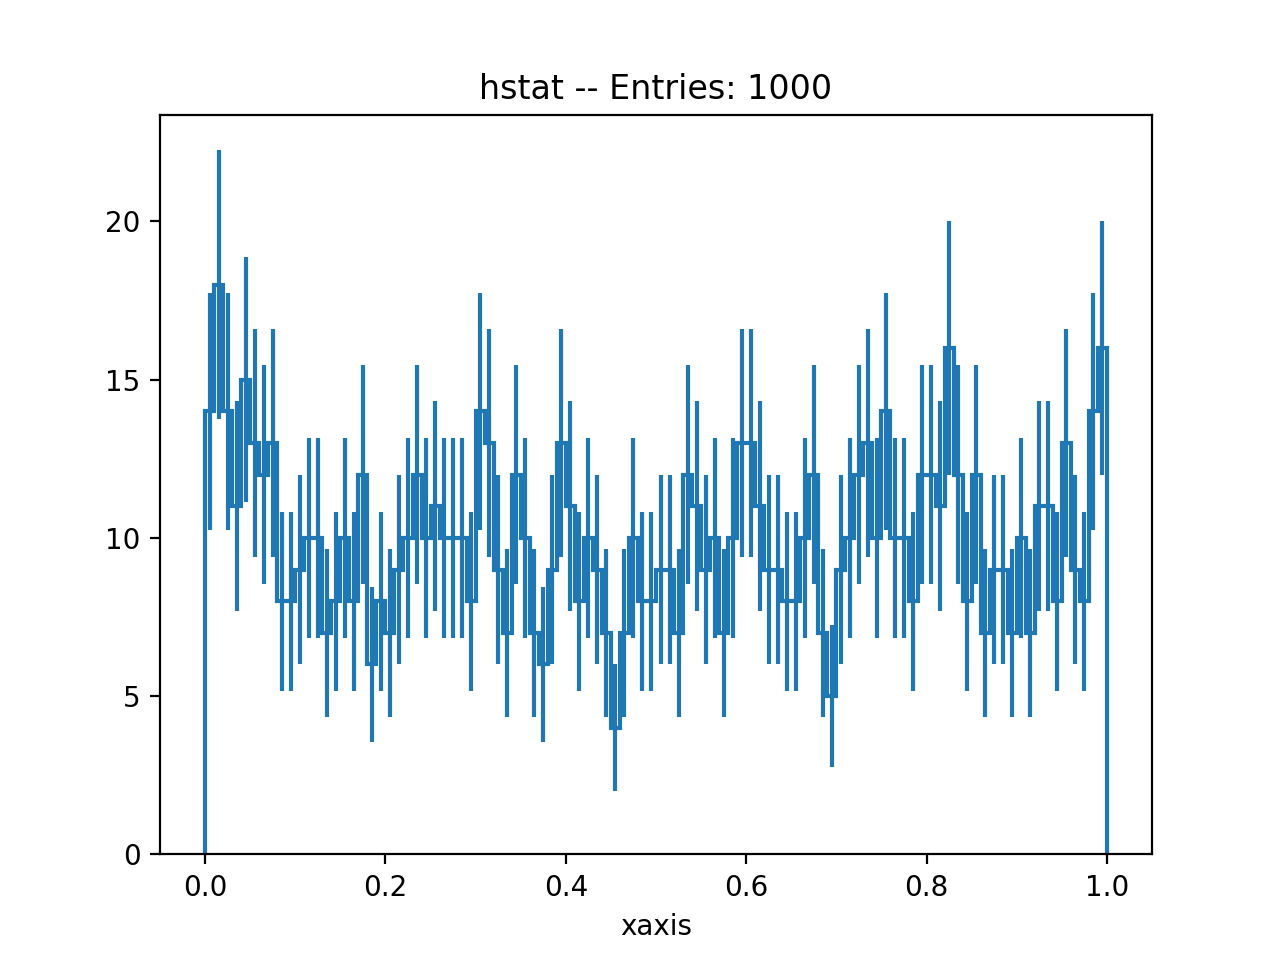
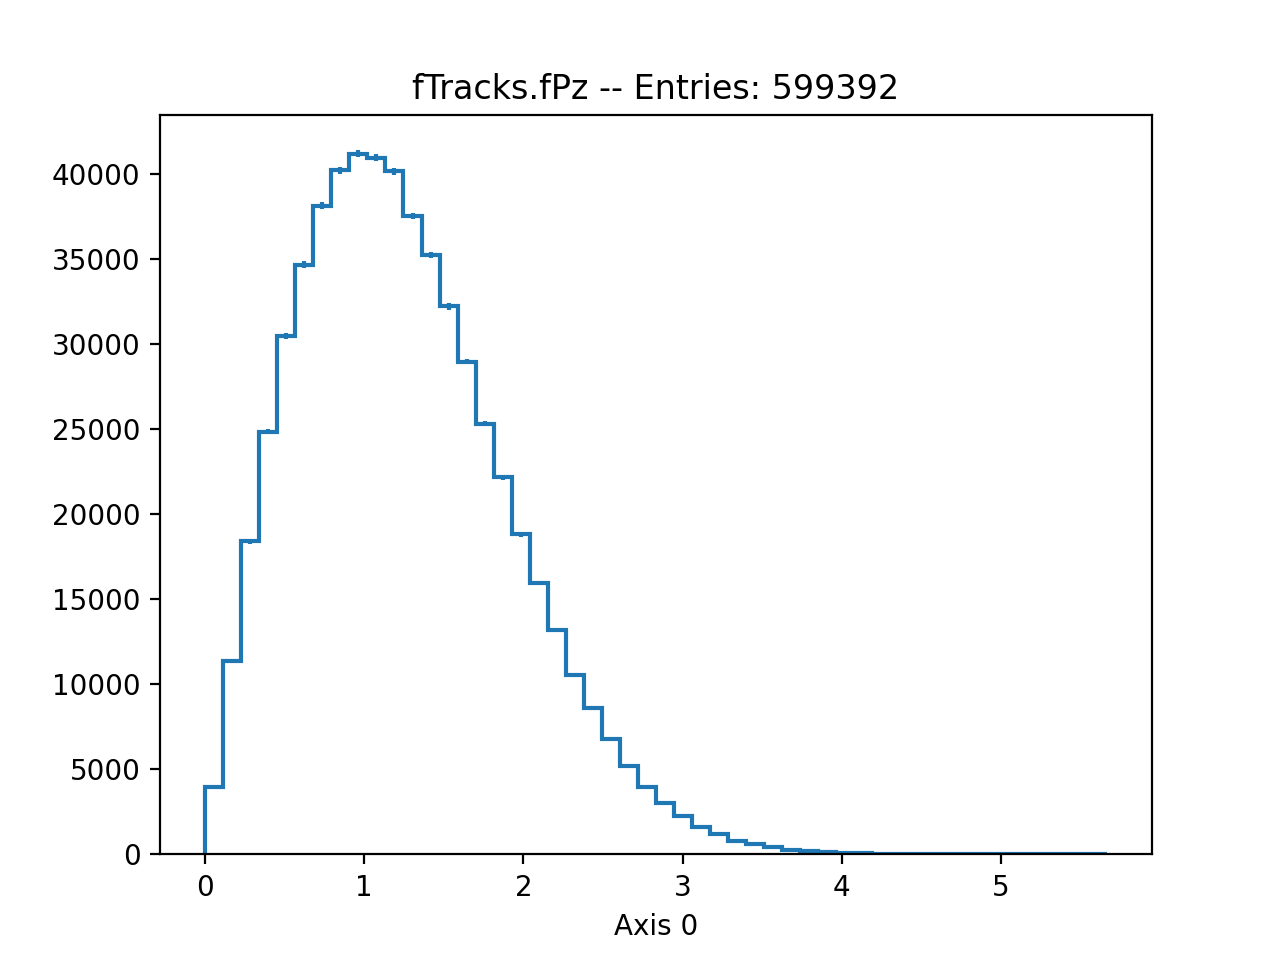
docs: use fTracks.fPz for the image example
The branch plot reads better than the flat hstat histogram, and it
matches the image the README had before. Also show the `--save` command
instead of only describing it.

Assisted-by: ClaudeCode:claude-opus-5

diff --git a/README.md b/README.md
@@ -90,11 +90,15 @@ uvx uproot-browser[image] ...
 Adding the argument `--image` gives us the plot:
 
 ```bash
-uproot-browser plot --testdata uproot-Event.root:hstat --image
+uproot-browser plot --testdata uproot-Event.root:T/fTracks.fPz --image
 ```
 
-Use `--save myplot.png` to save the plot to a file instead (transparent
-background where the format supports it).
+Use `--save` to write the plot to a file instead (any matplotlib format,
+with a transparent background where the format supports it):
+
+```bash
+uproot-browser plot --testdata uproot-Event.root:T/fTracks.fPz --save myplot.png
+```
 
 <img alt="image example" width="600px" src="https://raw.githubusercontent.com/scikit-hep/uproot-browser/main/docs/_images/image.png"/>
 
